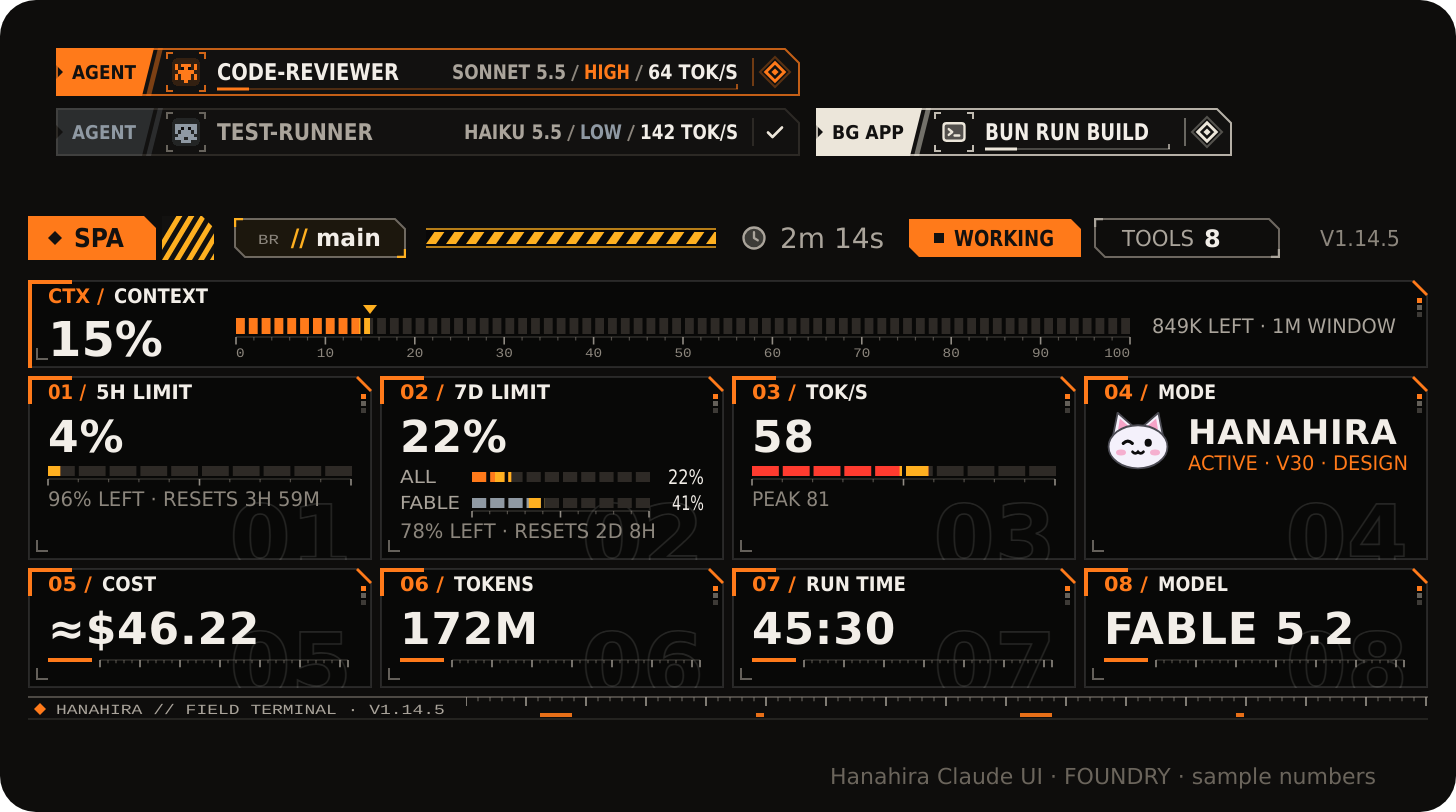
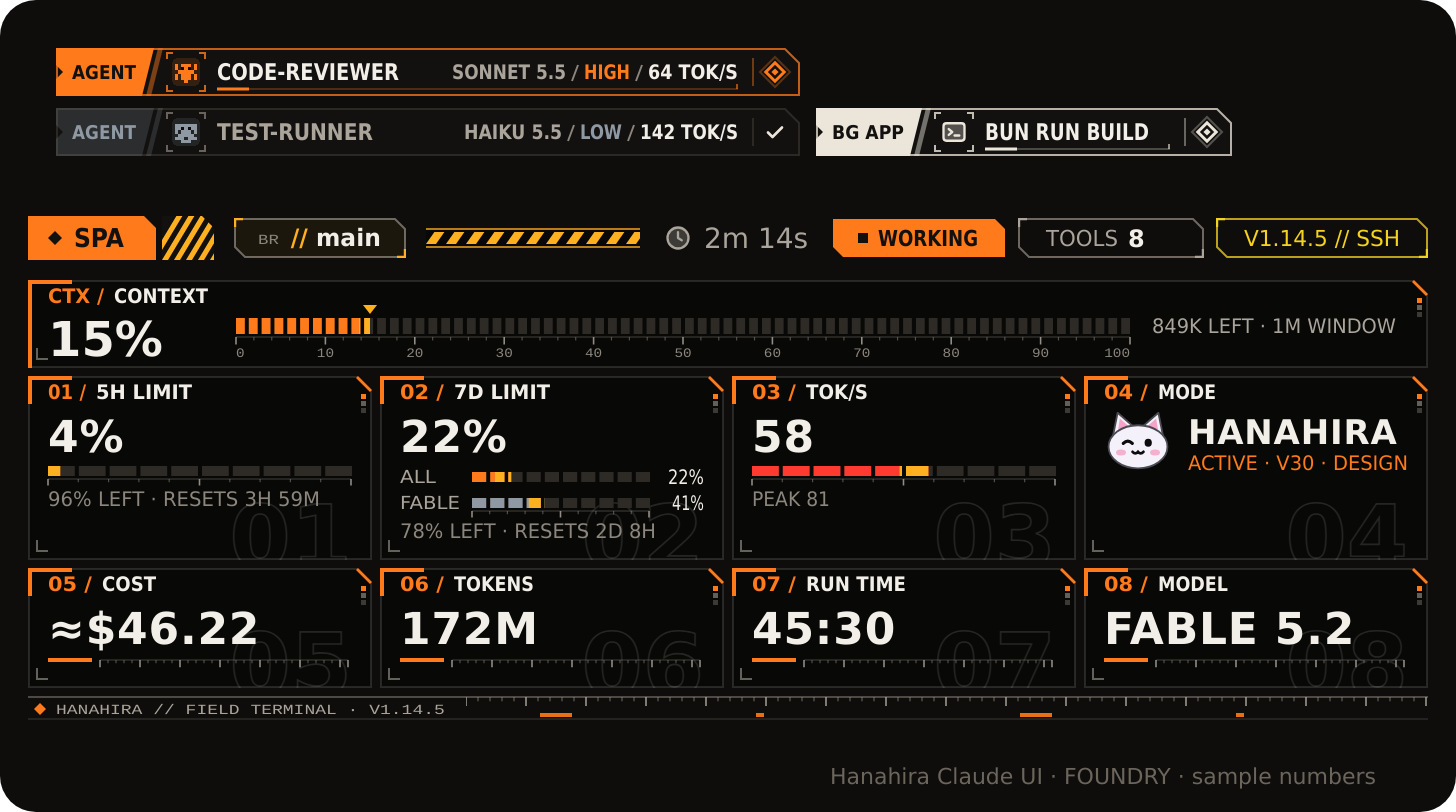
The version chip says which copy it is by colour: yellow for SSH, red for the account

Changed region(s): [[0.4327, 0.2463, 0.9581, 0.3387]]

diff --git a/hooks/hud.ts b/hooks/hud.ts
@@ -613,7 +613,7 @@ export const branchChipSvg = (branch: string) => {
  * wide as another state's. With `motion` it comes in once and its mark blinks (a loop: its
  * source holds while it works).
  */
-export const hudChipSvg = (opts: { label: string; color: string; icon?: IconName; pad?: number; value?: string; fill?: boolean; plain?: boolean; minWidth?: number; motion?: boolean; reel?: Since<string> | string | null }) => {
+export const hudChipSvg = (opts: { label: string; color: string; icon?: IconName; pad?: number; value?: string; fill?: boolean; plain?: boolean; minWidth?: number; motion?: boolean; reel?: Since<string> | string | null; tint?: string }) => {
   const H = HUD_CHIP
   const h = H.height
   const pad = opts.pad ?? H.pad
@@ -626,11 +626,12 @@ export const hudChipSvg = (opts: { label: string; color: string; icon?: IconName
   const valueW = opts.value ? 5 + labelWidth(opts.value, H.fs + 1) : 0
   const natural = Math.ceil(x + labelW + valueW + pad + H.lean)
   const width = Math.max(natural, Math.round(opts.minWidth ?? 0))
-  const ink = opts.fill ? HUE.card : opts.plain ? INK.detail : INK.label
+  // `tint` colours an outline chip whole (its edge, corner ticks and words): the version chip says which copy it is.
+  const ink = opts.fill ? HUE.card : opts.tint ?? (opts.plain ? INK.detail : INK.label)
   const shape = opts.plain
     ? ''
     : `<path d="${chipShape(width, h)}" ` +
-      (opts.fill ? `fill="${opts.color}"/>` : `fill="none" stroke="${INK.detail}" stroke-opacity="0.75"/>` + cornerTicks(width, h, INK.label))
+      (opts.fill ? `fill="${opts.color}"/>` : `fill="none" stroke="${opts.tint ?? INK.detail}" stroke-opacity="0.75"/>` + cornerTicks(width, h, opts.tint ?? INK.label))
   const svg =
     `<svg xmlns="http://www.w3.org/2000/svg" viewBox="0 0 ${width} ${h}" width="${width}" height="${h}">` +
     (opts.motion ? '<g class="chip">' : '') +

diff --git a/hooks/hud.test.ts b/hooks/hud.test.ts
@@ -151,6 +151,17 @@ describe('hudChipSvg', () => {
   })
 })
 
+describe('version chip', () => {
+  test('a tint colours an outline chip whole: yellow for the SSH copy, red for the account', () => {
+    for (const tint of [HUE.hazard, HUE.ember]) {
+      const svg = hudChipSvg({ color: INK.detail, label: 'v1.14.5 // SSH', tint }).svg
+      expect(svg).toContain(`stroke="${tint}" stroke-opacity="0.75"`)
+      expect(svg).toContain(`fill="${tint}"`)
+      expect(svg).not.toContain(`stroke="${INK.detail}"`)
+    }
+  })
+})
+
 describe('branch chip', () => {
   test('the branch is an outline chip: BR, amber slashes, the name in ink in its own case, escaped', () => {
     const a = branchChipSvg('main')

diff --git a/hooks/register.tsx b/hooks/register.tsx
@@ -1170,7 +1170,7 @@ export const register: Register = on => {
         reel: reel('tools', String(shownTools)),
         minWidth: hudChipSvg({ color: '', label: 'tools', value: '999' }).natural,
       }) },
-      { key: 'version', alt: `UI v${VERSION} ${SKILLS_FROM}`, art: hudChipSvg({ color: INK.detail, label: `v${VERSION} // ${SKILLS_FROM}` }) },
+      { key: 'version', alt: `UI v${VERSION} ${SKILLS_FROM}`, art: hudChipSvg({ color: INK.detail, label: `v${VERSION} // ${SKILLS_FROM}`, tint: SKILLS_FROM === 'SSH' ? HUE.hazard : HUE.ember }) },
     ]
 
     // Pixel width of the loading bar: what the row leaves after everything else on it, so the

diff --git a/scripts/preview.ts b/scripts/preview.ts
@@ -80,7 +80,7 @@ parts.push(nest(branch, branchX, ty + 2))
 const chips = [
   hudChipSvg({ color: SKY, label: 'working', fill: true }),
   hudChipSvg({ color: '', label: 'tools', value: '8', minWidth: hudChipSvg({ color: '', label: 'tools', value: '999' }).natural }),
-  hudChipSvg({ color: '', label: `v${VERSION}`, plain: true }),
+  hudChipSvg({ color: '', label: `v${VERSION} // SSH`, tint: HUE.hazard }),
 ]
 const chipsW = chips.reduce((w, c) => w + c.width, 0) + 6 * (chips.length - 1)
 let chipX = R - chipsW
